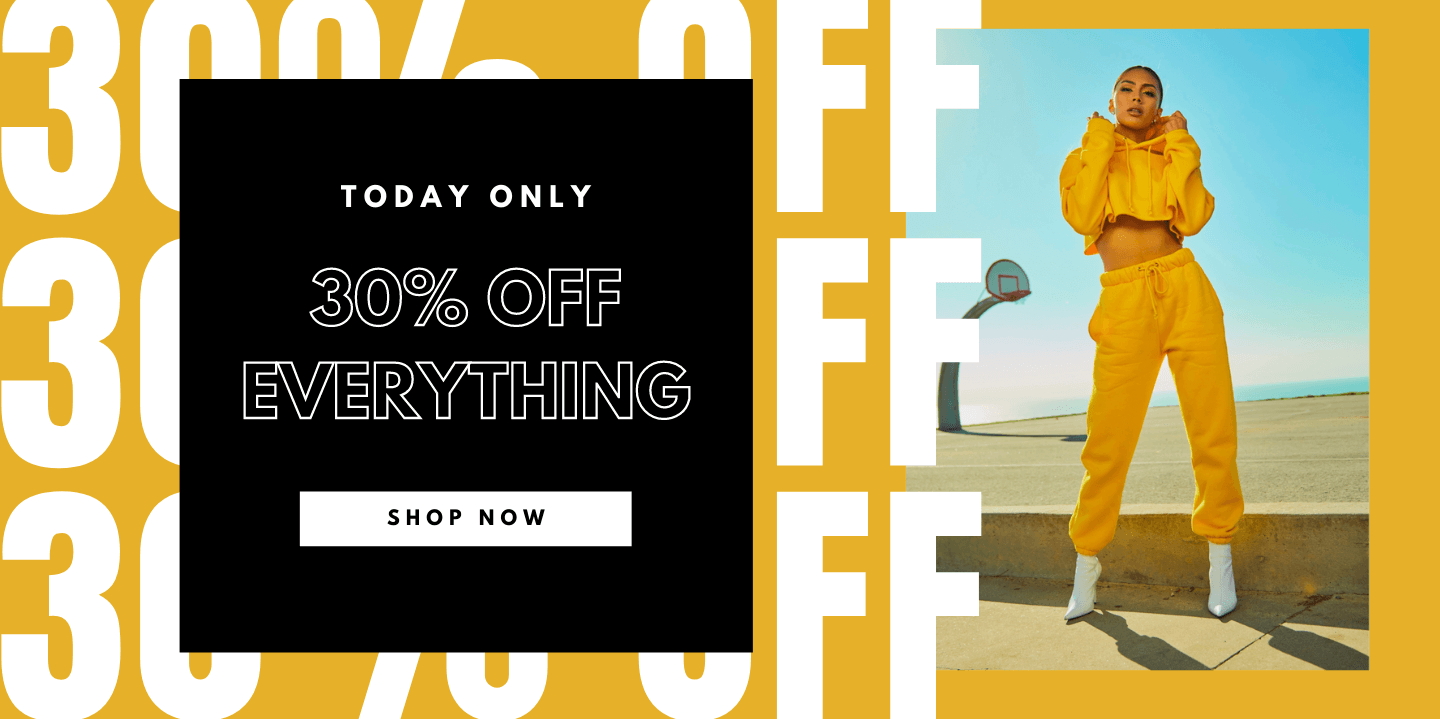
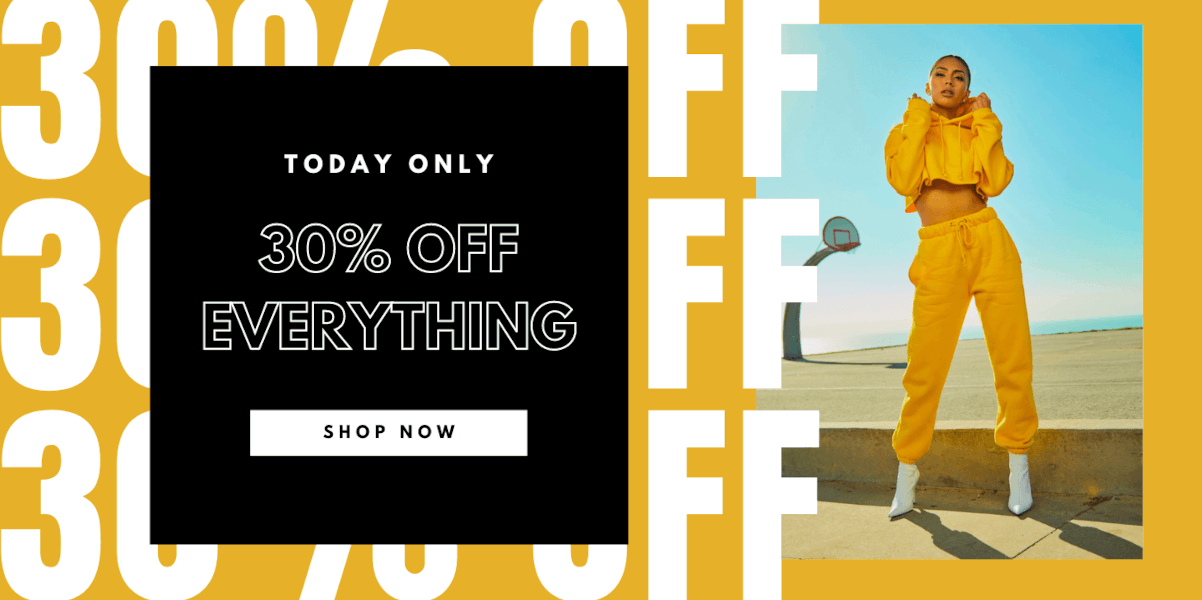
Carousel corrected

diff --git a/frontend/src/components/home/hero.component.js b/frontend/src/components/home/hero.component.js
@@ -1,13 +1,25 @@
 import { makeStyles } from "@material-ui/core/styles";
-import "react-responsive-carousel/lib/styles/carousel.min.css"; // requires a loader
-import { Carousel } from "react-responsive-carousel";
+import Carousel from "react-material-ui-carousel";
 import image1 from "../../assets/hero/1.png";
 import image2 from "../../assets/hero/2.png";
 import image3 from "../../assets/hero/3.png";
 import image4 from "../../assets/hero/4.png";
 const useStyles = makeStyles((theme) => ({
-  carousel: {},
-  image: {},
+  carousel: {
+    height: "350px",
+    [theme.breakpoints.up("sm")]: {
+      height: "500px",
+    },
+    marginBottom: "20px",
+  },
+  image: {
+    width: "100%",
+    height: "300px",
+    [theme.breakpoints.up("sm")]: {
+      height: "450px",
+    },
+    objectFit: "fill",
+  },
 }));
 const HeroComponent = () => {
   const classes = useStyles();
@@ -21,23 +33,21 @@ const HeroComponent = () => {
     console.log("hero item clicked", index);
   };
   return (
-    <div className={classes.carousel}>
-      <Carousel
-        className={classes.image}
-        stopOnHover={true}
-        showThumbs={false}
-        showArrows={true}
-        infiniteLoop={true}
-        autoPlay={true}
-        onClickItem={onClickItem}
-      >
-        {images.map((el) => (
-          <div key={el.alt} style={{ padding: 20, height: 450 }}>
-            <img src={el.image} alt={el.alt} />
-          </div>
-        ))}
-      </Carousel>
-    </div>
+    <Carousel
+      className={classes.carousel}
+      indicators={true}
+      swipe={true}
+      animation="slide"
+      navButtonsAlwaysVisible={true}
+      autoPlay={true}
+      onClickItem={onClickItem}
+    >
+      {images.map((el) => (
+        <div key={el.alt}>
+          <img className={classes.image} src={el.image} alt={el.alt} />
+        </div>
+      ))}
+    </Carousel>
   );
 };
 
